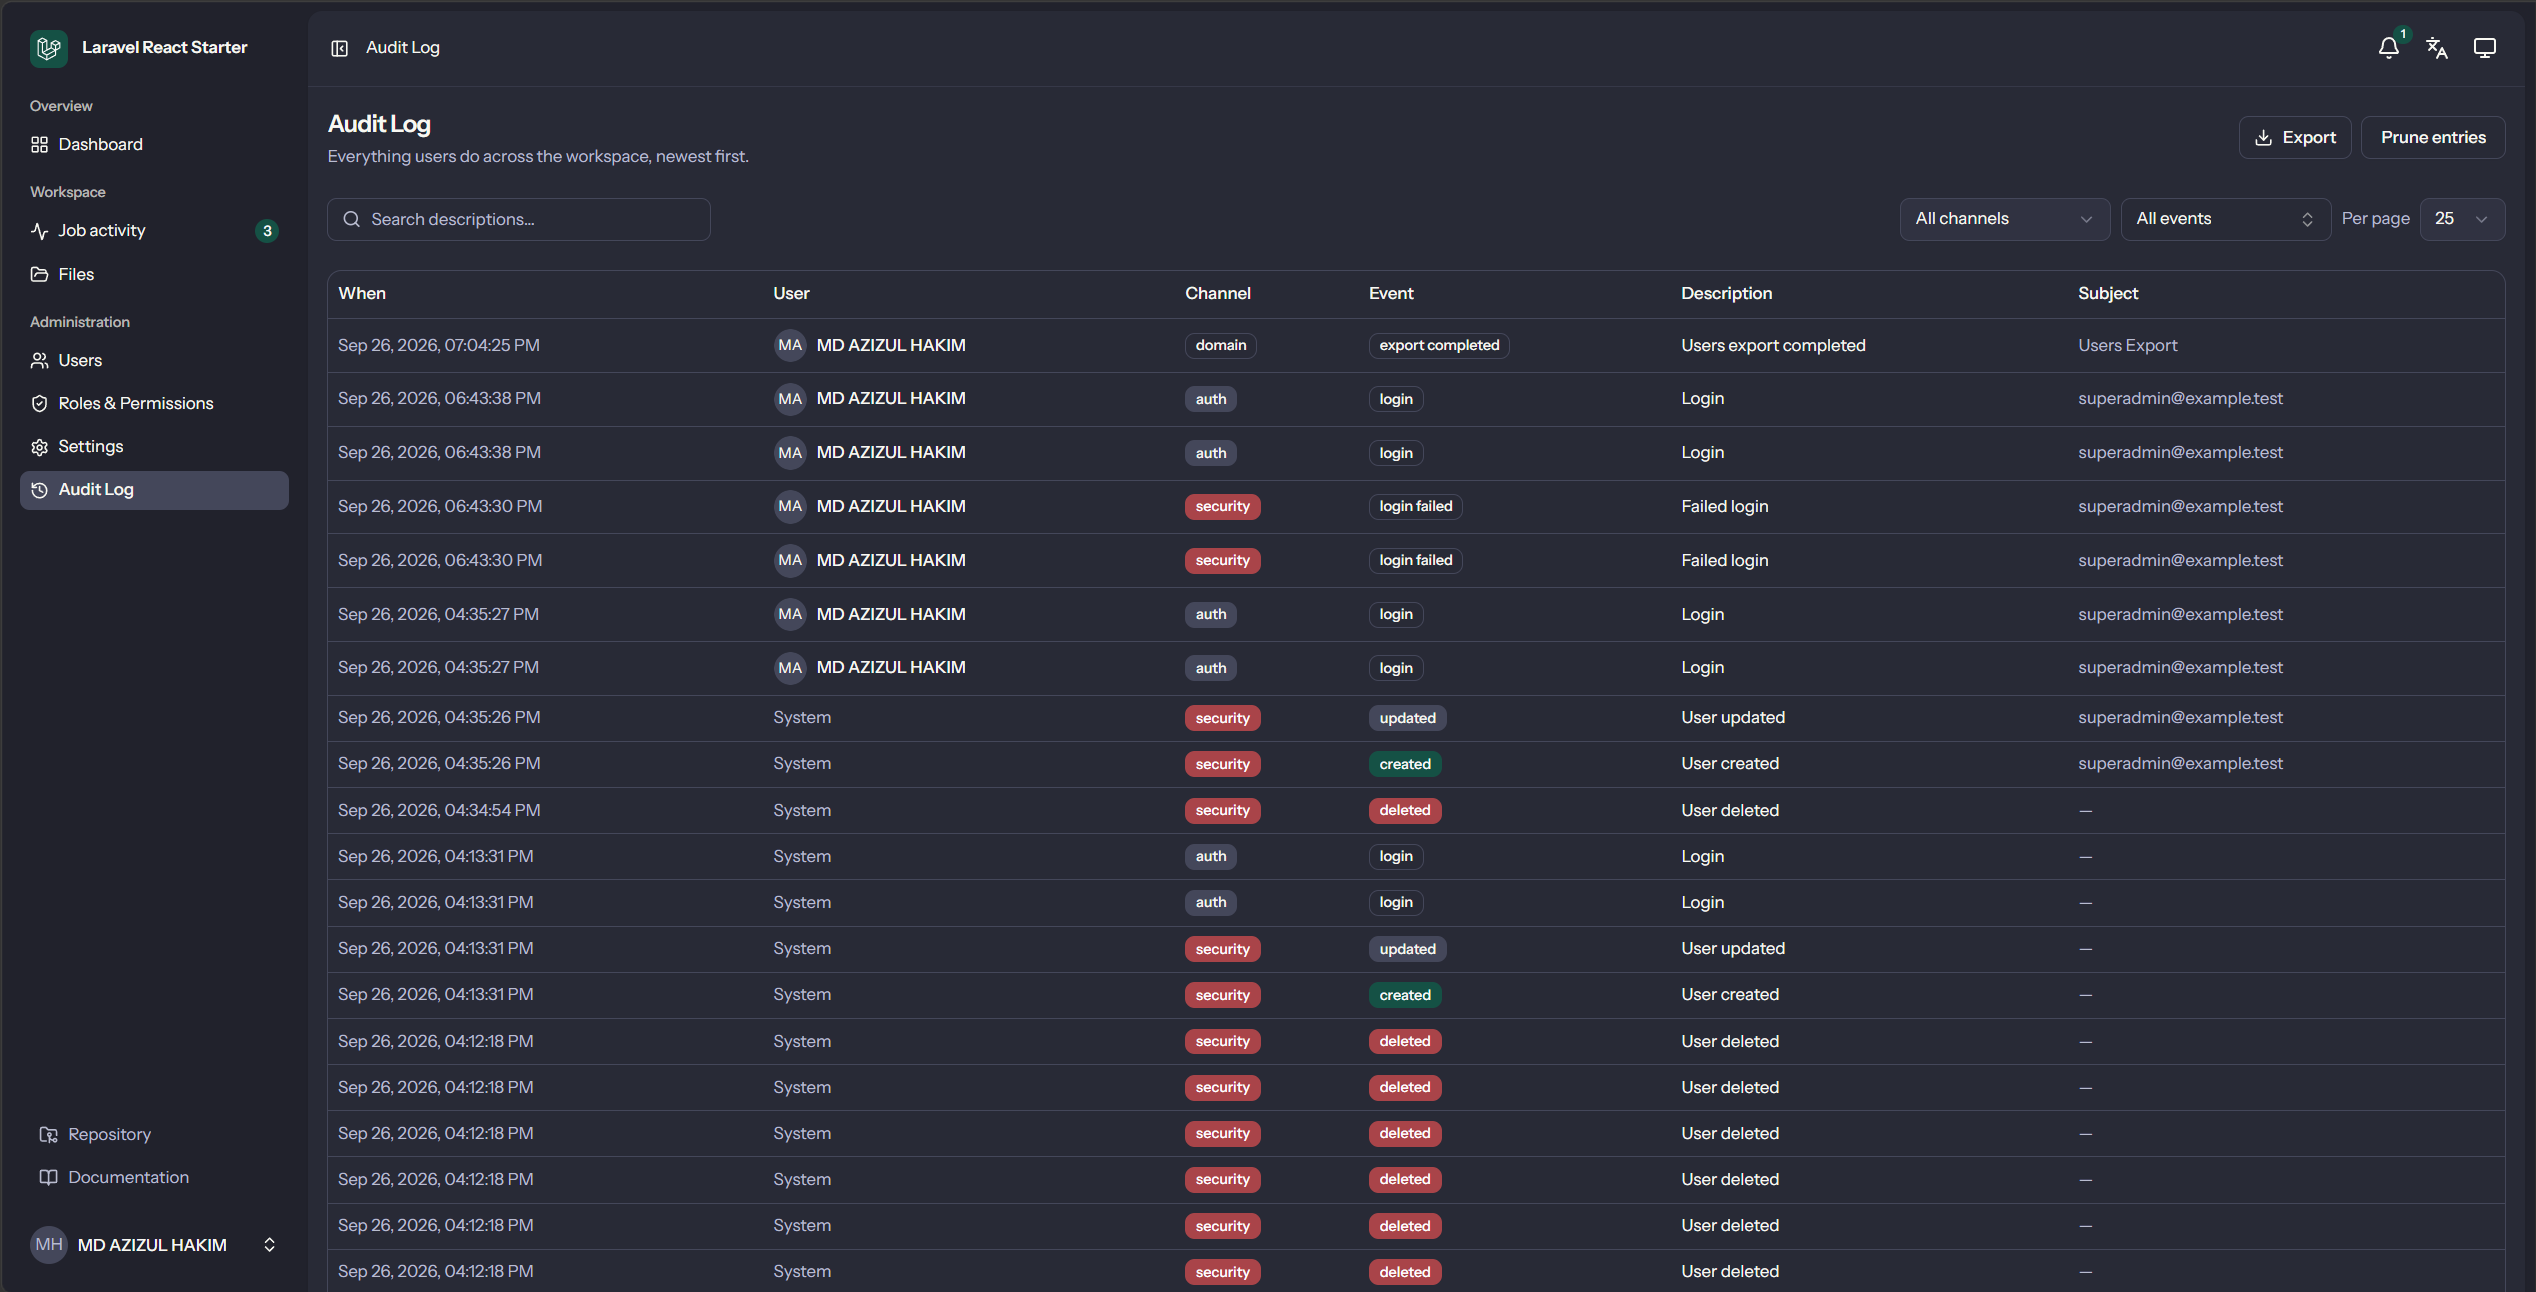
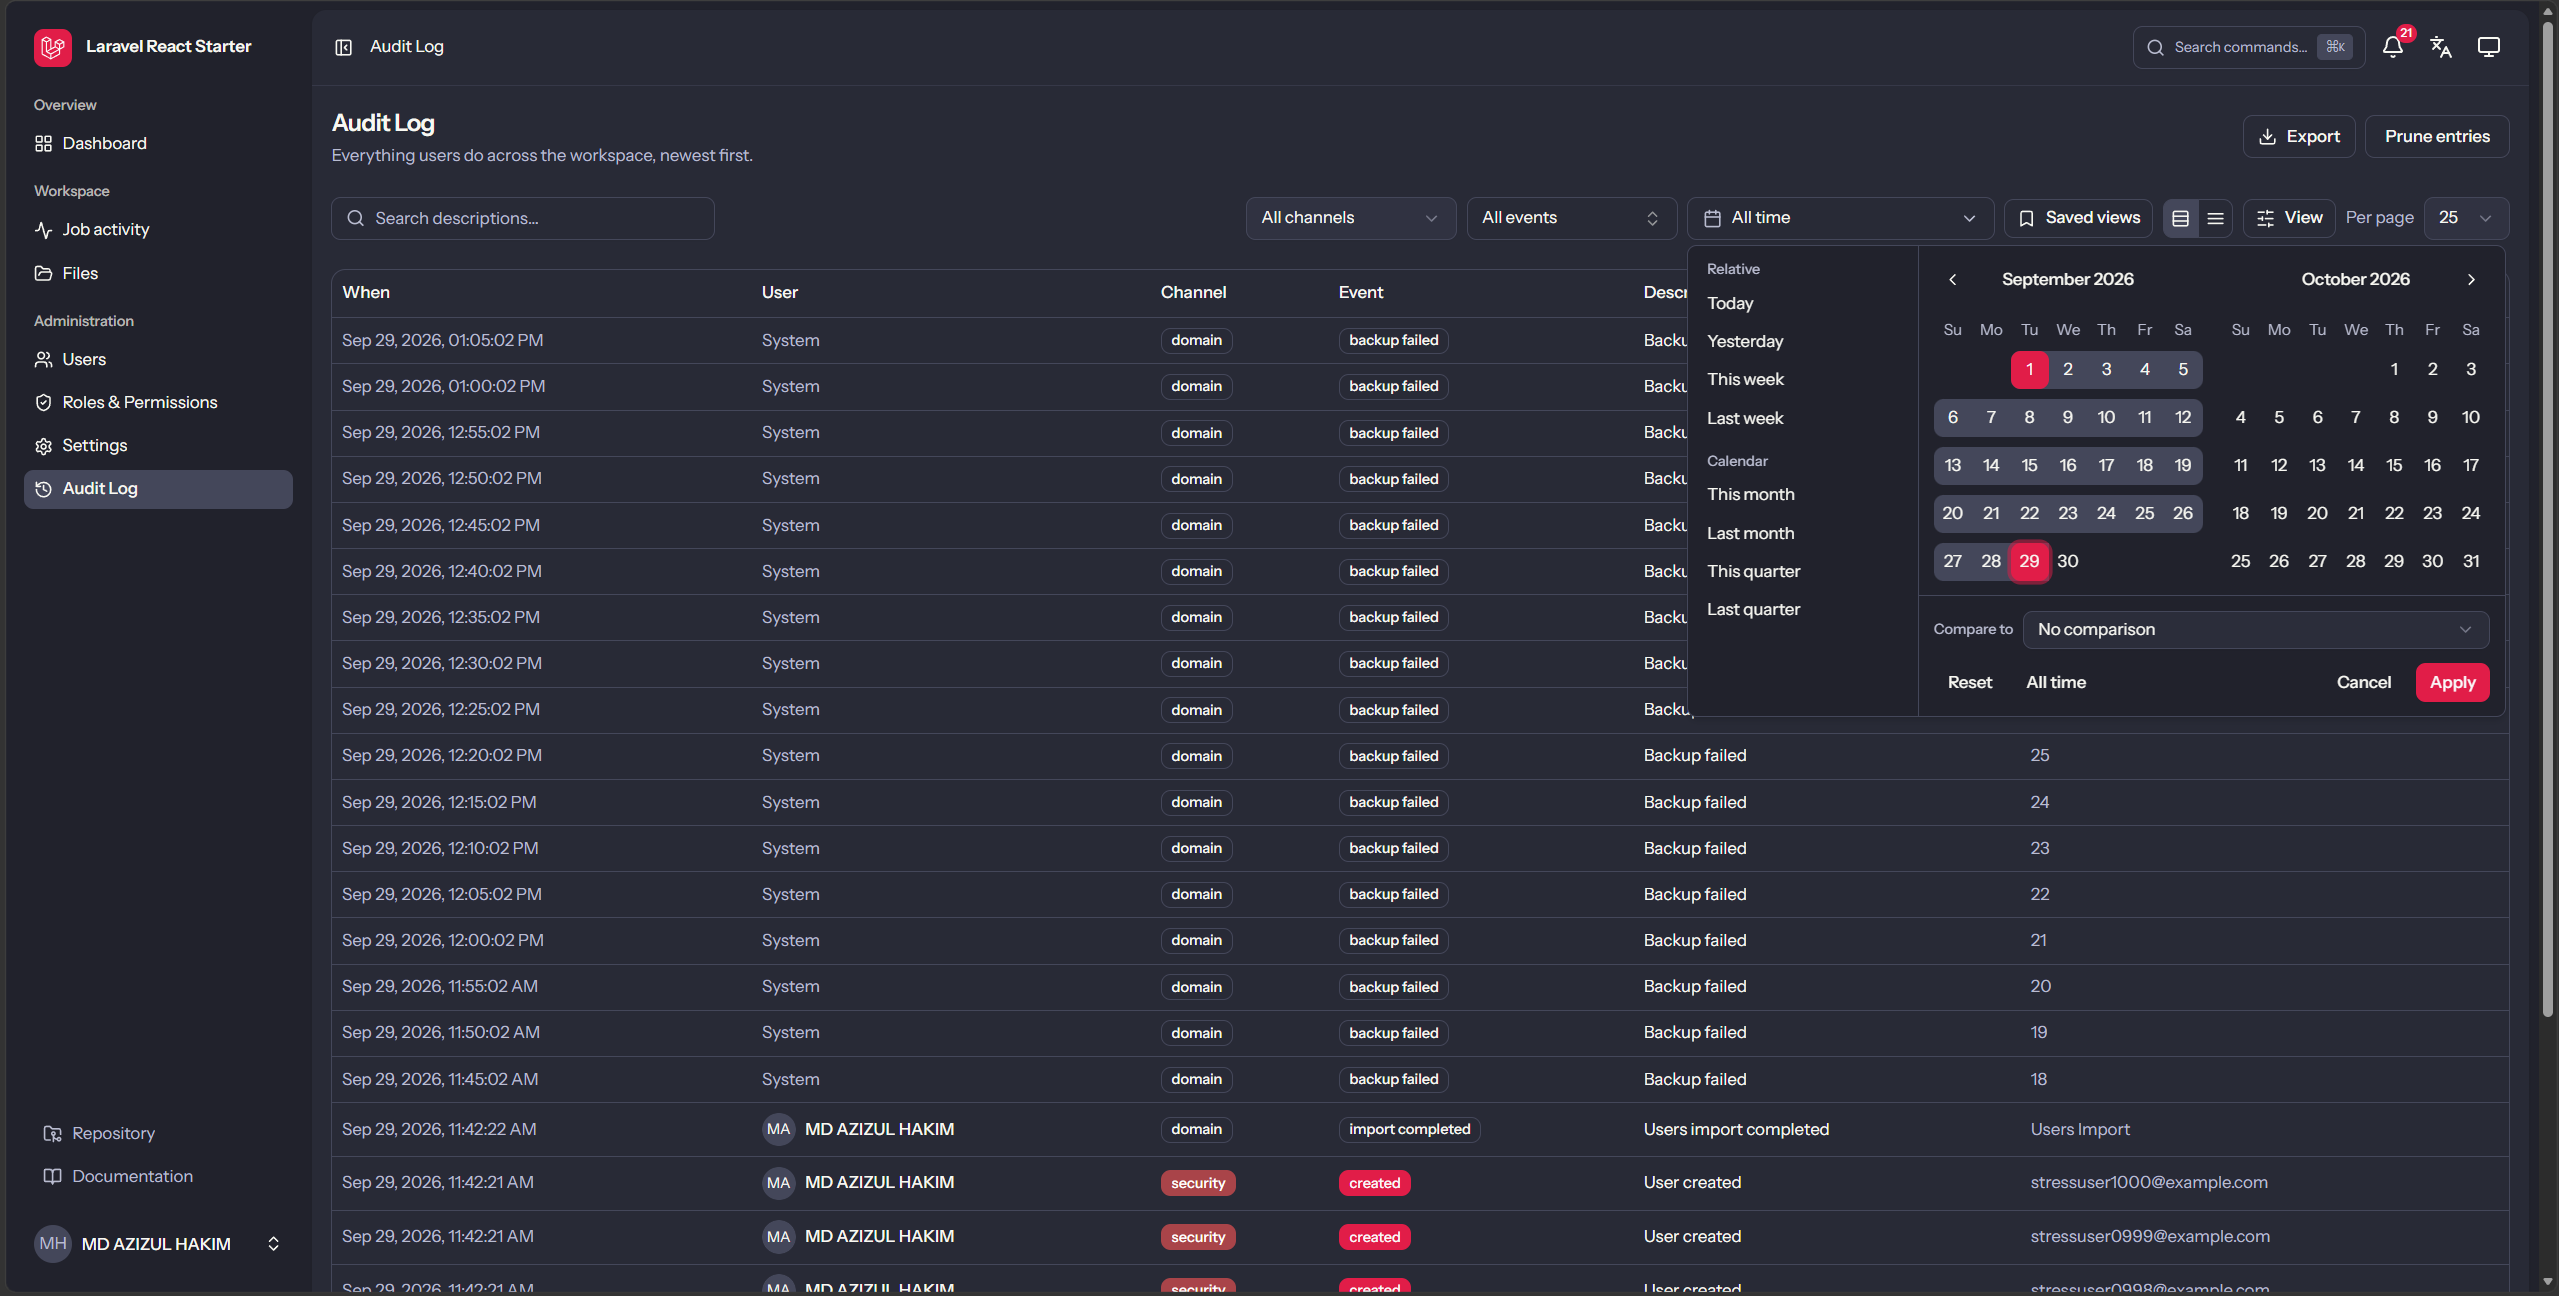
feat: add UI conventions and accessibility sections to documentation

diff --git a/docs/README.md b/docs/README.md
@@ -15,6 +15,8 @@ a production-ready Laravel + Inertia/React starter kit.
 | [Testing](testing.md)                         | Pest setup, the quality gate, git hooks                           |
 | [Translations](translations.md)               | The 5-locale i18n layer and how to add strings                    |
 | [Troubleshooting](troubleshooting.md)         | Common problems and fixes                                         |
+| [UI conventions](ui-conventions.md)           | Motion, feedback, charts and accessibility conventions |
+| [Accessibility](accessibility.md)             | Keyboard/focus/contrast audit and high-contrast tokens |
 
 ## In the application
 

diff --git a/README.md b/README.md
@@ -97,6 +97,8 @@ Full guides live in [`docs/`](docs/README.md):
 | [Testing](docs/testing.md)                        | Pest, the quality gate, git hooks        |
 | [Translations](docs/translations.md)              | The 5-locale i18n layer                  |
 | [Troubleshooting](docs/troubleshooting.md)        | Common problems and fixes                |
+| [UI conventions](docs/ui-conventions.md) | Motion, feedback, charts and accessibility conventions |
+| [Accessibility](docs/accessibility.md) | Keyboard/focus/contrast audit and high-contrast tokens |
 
 ## Contributing
 
